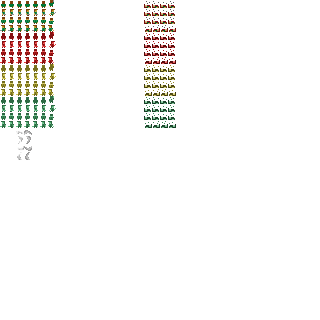
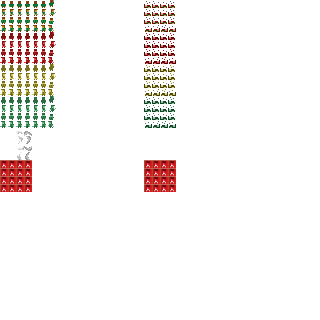
fixed push direction and npcs no longer grief your corpse that much. shortneend thier attack and have ugly fixes everywhere

Changed region(s): [[0.4375, 0.5, 0.5625, 0.625], [0.0, 0.5, 0.125, 0.625], [0.0625, 0.4062, 0.0938, 0.4375]]

diff --git a/server.js b/server.js
@@ -177,9 +177,18 @@ setInterval(function(){
         datas.push(code + "." + dir + "." + state + "." + pos);
       }
       //Attacks
-      var db = coredata.chunks[coredata.players[player].closeChunks[chunk]].attacks;;
+      var db = coredata.chunks[coredata.players[player].closeChunks[chunk]].attacks;
       for (var attack in db){
         var code = db[attack].type
+        var pos = db[attack].pos
+        var dir = db[attack].dir
+        var state = db[attack].state
+        datas.push(code + "." + dir + "." + state + "." + pos);
+      }
+      //entities
+      var db = coredata.chunks[coredata.players[player].closeChunks[chunk]].entities;
+      for (var attack in db){
+        var code = db[attack].team
         var pos = db[attack].pos
         var dir = db[attack].dir
         var state = db[attack].state
